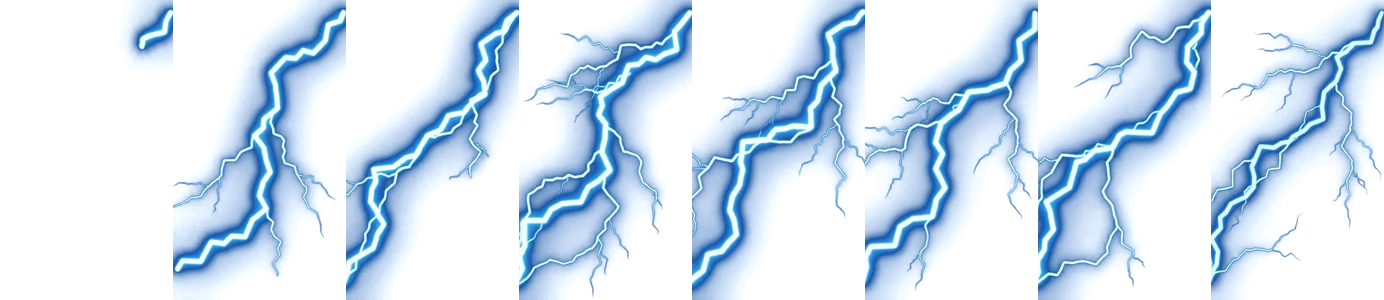
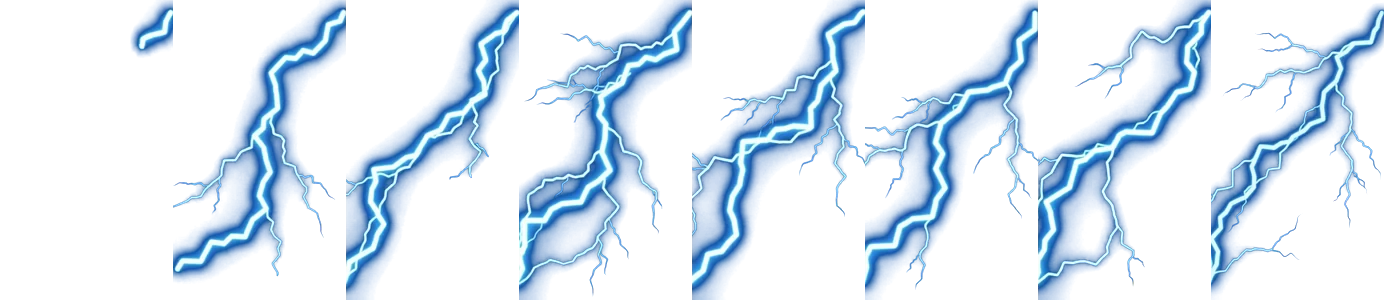
Paper Fighters: dark night with a light pool on the fight, night lightning, ghosts that can be beaten
Night is near-black except an oval of light that follows the fighters,
lightning now strikes at night and lifts the dark for a moment, and ghosts
glow in the dark. Ghosts float within reach, take three hits (heavy hits
count double), flash and get knocked back when hit, burst on death, and
projectiles hurt them too. Cleaned the haze around the lightning image.

Claude-Session: https://claude.ai/code/session_018GkYzaQzPA7Fx3gLGY7Wwf

Changed region(s): [[0.1243, 0.0, 1.0, 1.0], [0.0932, 0.0, 0.1243, 0.21]]

diff --git a/pencil-battle/game.html b/pencil-battle/game.html
@@ -2055,6 +2055,7 @@ function throwProj(f){const t=f.ch.proj,P_=PROJ[t],h=f.sk.h1,n=t==='star'?3:1;AU
 function updProj(e,dt){if(e.t<0)return;e.vy-=e.g*dt;e.x+=e.vx*dt;e.y+=e.vy*dt;e.rot+=dt*(e.type==='star'?28:8);
   if(e.type==='fire'&&Math.random()<.7)fx.push({k:'ink',x:e.x,y:e.y,vx:-e.vx*.2+(Math.random()-.5)*80,vy:(Math.random()-.3)*90,t:0,life:.35,col:Math.random()<.5?'#ffb21e':'#ff5a1e',len:6});
   if(e.type==='ice'&&Math.random()<.5)fx.push({k:'ink',x:e.x,y:e.y,vx:-e.vx*.15,vy:(Math.random()-.5)*60,t:0,life:.4,col:'#bfefff',len:4});
+  const gh=GH.find(g=>!g.dead&&Math.hypot(g.x-e.x,g.y-e.y)<60);if(gh){e.done=1;e.t=e.life;if(e.type==='bomb')smokePuff(e.x,1);else if(e.type==='fire')fireBurst([e.x,e.y],true,'#ff5a1e');hurtGhost(gh,e.o,e.type==='star'?1:3,[e.x,e.y]);return}
   const tgt=fighters.find(f=>f!==e.o&&f.team!==e.o.team&&!f.gone&&f.state!=='ko'&&!f.ko&&Math.abs(f.x-e.x)<30*f.sc&&e.y>-5&&e.y<150*f.sc);
   if(!tgt&&!(e.type==='bomb'&&e.y<=4))return;
   e.done=1;e.t=e.life;const p=[e.x,e.y];
@@ -2093,23 +2094,30 @@ setTimeout(()=>{wxLabel();const b=document.getElementById('wxBtn');if(b)b.onclic
 let GH=[];const GHI=Array.from({length:10},(_,i)=>Object.assign(new Image(),{src:'fx/ghost'+i+'.webp'}));  // 8-frame strips cut from the user's ghost video
 function updGhosts(dt){if(WX.type!=='night'||game.mode==='demo'||game.phase!=='fight'){if(game.phase!=='fight')GH=[];return}
   WX.gT=(WX.gT??4)-dt;const cap=game.mode==='story'?3:2;
-  if(WX.gT<=0&&GH.length<cap){WX.gT=6+Math.random()*6;const hw=W/2/cam.z;GH.push({x:cam.x+(Math.random()<.5?-1:1)*hw*.9,y:230+Math.random()*90,t:0,st:'drift',cd:2+Math.random()*2,i:Math.random()*10|0,a:0,face:1});AU.whoosh(true)}
-  for(const g of GH){g.t+=dt;g.a=Math.min(1,g.a+dt*1.5);
-    if(g.st==='drift'){g.cd-=dt;const hw=W/2/cam.z;g.x+=Math.sin(g.t*.9+g.i)*60*dt;g.y=230+Math.sin(g.t*1.7+g.i)*40;g.x=clamp(g.x,cam.x-hw,cam.x+hw);
+  if(WX.gT<=0&&GH.length<cap){WX.gT=6+Math.random()*6;const hw=W/2/cam.z;GH.push({x:cam.x+(Math.random()<.5?-1:1)*hw*.9,y:150,t:0,st:'drift',cd:2+Math.random()*2,i:Math.random()*10|0,a:0,face:1,hp:3,fl:0,kx:0});AU.whoosh(true)}
+  for(const g of GH){g.t+=dt;g.a=Math.min(1,g.a+dt*1.5);g.fl=Math.max(0,g.fl-dt);if(g.kx){g.x+=g.kx*dt;g.kx*=Math.pow(.02,dt);if(Math.abs(g.kx)<20)g.kx=0}
+    if(g.st==='drift'){g.cd-=dt;const hw=W/2/cam.z;g.x+=Math.sin(g.t*.9+g.i)*60*dt;g.y+=(140+Math.sin(g.t*1.7+g.i)*45-g.y)*Math.min(1,dt*3);g.x=clamp(g.x,cam.x-hw,cam.x+hw);
       if(g.cd<=0){const tg=fighters.filter(f=>!f.gone&&!f.ko&&f.state!=='ko').sort((a,b)=>Math.abs(a.x-g.x)-Math.abs(b.x-g.x))[0];if(tg){g.st='dash';g.tg=tg;g.cd=1.2}}}
     else if(g.st==='dash'){const tg=g.tg,tx=tg.x,ty=tg.y+95*tg.sc,dx=tx-g.x,dy=ty-g.y,l=Math.hypot(dx,dy)||1;g.face=dx>0?1:-1;g.x+=dx/l*520*dt;g.y+=dy/l*520*dt;g.cd-=dt;
-      if(l<34*tg.sc&&tg.inv<=0&&tg.state!=='down'&&tg.state!=='getup'){const d=Math.sign(dx)||1;tg.hp=Math.max(1,tg.hp-4);tg.state='hit';tg.stun=.4;tg.vx=d*260;tg.move=null;tg.flash=.13;tg.hitPose='hit2';spark([tg.x,ty],0);AU.hit(false);if(tg===P1)buzz(40);g.st='drift';g.cd=3+Math.random()*2;g.y+=60}
+      if(l<34*tg.sc&&tg.inv<=0&&tg.state!=='down'&&tg.state!=='getup'){const d=Math.sign(dx)||1;tg.hp=Math.max(1,tg.hp-4);tg.state='hit';tg.stun=.4;tg.vx=d*260;tg.move=null;tg.flash=.13;tg.hitPose='hit2';spark([tg.x,ty],0);AU.hit(false);if(tg===P1)buzz(40);g.st='drift';g.cd=3+Math.random()*2}
       else if(g.cd<=0){g.st='drift';g.cd=2.5}}
     // dispelled by any attack that reaches it
-    for(const f of fighters){if(f.state!=='move'||!f.move)continue;const m=f.move;for(const h of m.d.hits){if(m.t<h.t0||m.t>h.t1)continue;for(const q of f.limbPts(h.limb))if(Math.hypot(q[0]-g.x,q[1]-g.y)<46){g.dead=1;smokePuff(g.x,.7);fx.push({k:'word',x:g.x,y:g.y+30,t:0,life:.7,txt:'پوف!',rot:0});if(f===P1&&game.mode==='story'){story.kills++;addCoins(1)}}}}}
+    for(const f of fighters){if(g.dead||f.state!=='move'||!f.move||g.by===f.move)continue;const m=f.move;let hit=0;for(const h of m.d.hits){if(m.t<h.t0||m.t>h.t1)continue;for(const q of f.limbPts(h.limb))if(Math.hypot(q[0]-g.x,q[1]-g.y)<64)hit=h}
+      if(hit){g.by=m;hurtGhost(g,f,hit.dmg>=9||hit.kind==='heavy'||hit.kind==='knock'?2:1,[g.x,g.y])}}}
   GH=GH.filter(g=>!g.dead)}
+function hurtGhost(g,f,n,p){g.hp-=n;g.fl=.18;g.kx=(Math.sign(g.x-f.x)||f.face||1)*380;g.st='drift';g.cd=Math.max(g.cd,1.4);spark(p,1);AU.hit(true);shake(4);
+  if(g.hp>0){fx.push({k:'word',x:g.x,y:g.y+50,t:0,life:.5,txt:['جیغ!','هـــو!','آخ!'][g.hp%3],rot:0});return}
+  g.dead=1;smokePuff(g.x,.9);for(let k=0;k<18;k++){const a=Math.random()*TAU,v=150+Math.random()*350;fx.push({k:'ink',x:g.x,y:g.y,vx:Math.cos(a)*v,vy:Math.sin(a)*v,t:0,life:.5,col:Math.random()<.5?'#dff4ff':'#9fd8ff',len:7})}
+  fx.push({k:'ring',x:g.x,y:g.y,t:0,life:.35,col:'#bfe8ff',s:1.6});fx.push({k:'word',x:g.x,y:g.y+40,t:0,life:.8,txt:'پوف!',rot:0});
+  if(f===P1&&game.mode==='story'){story.kills++;addCoins(2)}}
 function drawGhostsWX(){for(const g of GH){const im=GHI[g.i],bob=Math.sin(g.t*4)*4;ctx.save();ctx.globalAlpha=g.a*(g.st==='dash'?1:.9);ctx.translate(g.x,g.y+bob);if(QL<1){ctx.shadowColor='rgba(200,230,255,.8)';ctx.shadowBlur=QL?0:14}
-    if(im.complete&&im.naturalWidth){const fw=im.naturalWidth/8,h=150,w=h*fw/im.naturalHeight,k=Math.floor(g.t*8)%8;ctx.scale(g.face,-1);ctx.drawImage(im,k*fw,0,fw,im.naturalHeight,-w/2,-h/2,w,h)}
+    if(im.complete&&im.naturalWidth){const fw=im.naturalWidth/8,h=150,w=h*fw/im.naturalHeight,k=Math.floor(g.t*8)%8;ctx.scale(g.face,-1);ctx.drawImage(im,k*fw,0,fw,im.naturalHeight,-w/2,-h/2,w,h);if(g.fl>0){ctx.globalCompositeOperation='lighter';ctx.globalAlpha=g.fl/.18;ctx.drawImage(im,k*fw,0,fw,im.naturalHeight,-w/2,-h/2,w,h)}}
     else{ctx.scale(g.face,1);ctx.fillStyle='rgba(240,244,255,.9)';ctx.strokeStyle='rgba(60,70,90,.8)';ctx.lineWidth=2;ctx.beginPath();ctx.moveTo(-26,-34);for(let i=0;i<=6;i++){const x=-26+i*52/6;ctx.lineTo(x,-34+(i%2?8:0)+Math.sin(g.t*8+i)*3)}ctx.lineTo(26,10);ctx.arc(0,10,26,0,Math.PI);ctx.closePath();ctx.fill();ctx.stroke();
       ctx.fillStyle='#14161c';for(const ex of[-9,9]){ctx.beginPath();ctx.ellipse(ex+4,14,5,8,0,0,TAU);ctx.fill()}ctx.beginPath();ctx.ellipse(6,-4,6,9+Math.sin(g.t*6)*3,0,0,TAU);ctx.fill()}
     ctx.restore()}}
 function rollWeather(){GH=[];WX.gT=4;const r=Math.random();WX.type=wxPick!=='rand'?wxPick:r<.45?'clear':r<.6?'night':r<.75?'rain':r<.87?'storm':'snow';WX.t=0;WX.snow=0;WX.flash=0;WX.next=3+Math.random()*5;WX.drops=[]}
-function updWeather(dt){if(game.mode==='demo'||WX.type==='clear'||WX.type==='night')return;WX.t+=dt;
+function updWeather(dt){if(game.mode==='demo'||WX.type==='clear')return;WX.t+=dt;
+  if(WX.type==='night'){WX.flash=Math.max(0,WX.flash-dt*2.6);WX.next-=dt;if(WX.next<=0){WX.next=5+Math.random()*8;WX.flash=1;WX.bolt=W*(.1+Math.random()*.8);setTimeout(()=>{AU.thud();shake(7)},200+Math.random()*450)}return}
   const rain=WX.type==='rain'||WX.type==='storm',n=(rain?(WX.type==='storm'?260:210):170)*(QL?.55:1)|0;
   while(WX.drops.length<n){const s_=Math.random();WX.drops.push({x:Math.random()*W,y:Math.random()*H-H,v:rain?(520+s_*620):(40+Math.random()*50),s:s_,ph:Math.random()*TAU})}
   const gy=groundY();for(const d of WX.drops){d.y+=d.v*dt;if(rain)d.x-=d.v*.12*dt;else d.x+=Math.sin(WX.t*1.3+d.ph)*20*dt;
@@ -2122,9 +2130,18 @@ function drawWeatherWorld(){if(WX.type!=='snow'||WX.snow<=0)return;const a=WX.sn
   ctx.fillStyle=`rgba(255,255,255,${.9*a})`;for(let x=Math.floor((cam.x-hw)/90)*90;x<cam.x+hw;x+=90){const r=(Math.sin(x*12.9898)*43758.5453)%1;ctx.beginPath();ctx.ellipse(x+Math.abs(r)*60,2,26+Math.abs(r)*30,4+8*a,0,0,TAU);ctx.fill()}
   for(const p of props){if(p.y>2||Math.abs(p.rot)>.2)continue;ctx.beginPath();ctx.ellipse(p.x,p.y+p.h-1,p.w*.55,3+10*a,0,0,Math.PI);ctx.fill()}
   ctx.restore()}
+// night: the room is dark except a pool of light that follows the fight; lightning lifts the dark for a moment
+function drawNight(){const al=fighters.filter(f=>!f.gone);let x0=cam.x,x1=cam.x;if(al.length){x0=Math.min(...al.map(f=>f.x));x1=Math.max(...al.map(f=>f.x))}
+  const [mx,my]=toScreen((x0+x1)/2,85),z=cam.z,ry=150*z,r0=Math.max(ry,(x1-x0)/2*z+110*z),fl=WX.flash,dk=.93*(1-fl*.85);
+  // oval light: r0 wide, ry tall (drawn as a stretched circle)
+  const g=ctx.createRadialGradient(0,0,ry*.7,0,0,ry*1.5);g.addColorStop(0,'rgba(3,5,18,0)');g.addColorStop(.4,`rgba(3,5,18,${dk*.5})`);g.addColorStop(1,`rgba(3,5,18,${dk})`);
+  ctx.save();ctx.translate(mx,my);ctx.scale(r0/ry,1);ctx.fillStyle=g;const R=Math.max(W,H)*2;ctx.fillRect(-R,-R,R*2,R*2);ctx.restore();
+  // soft cone of light from above and a warm pool on the floor
+  const gy=groundY(),c=ctx.createLinearGradient(0,0,0,gy);c.addColorStop(0,'rgba(255,232,170,.0)');c.addColorStop(1,'rgba(255,226,150,.13)');ctx.fillStyle=c;ctx.beginPath();ctx.moveTo(mx-r0*.25,0);ctx.lineTo(mx+r0*.25,0);ctx.lineTo(mx+r0*1.05,gy);ctx.lineTo(mx-r0*1.05,gy);ctx.closePath();ctx.fill();
+  const p=ctx.createRadialGradient(mx,gy,4,mx,gy,r0*1.1);p.addColorStop(0,'rgba(255,220,140,.22)');p.addColorStop(1,'rgba(255,220,140,0)');ctx.fillStyle=p;ctx.save();ctx.translate(mx,gy);ctx.scale(1,.22);ctx.translate(-mx,-gy);ctx.fillRect(mx-r0*1.2,gy-r0*1.2,r0*2.4,r0*2.4);ctx.restore()}
 function drawWeatherScreen(){if(game.mode==='demo')return;const T=WX.type;if(T==='clear')return;ctx.save();
-  if(T==='night'||T==='storm'||T==='rain'){ctx.fillStyle=T==='night'?'rgba(8,14,52,.58)':T==='storm'?'rgba(14,18,36,.5)':'rgba(28,38,62,.3)';ctx.fillRect(0,0,W,H);
-    if(T==='night'){const g=ctx.createRadialGradient(W/2,groundY()-60,30,W/2,groundY()-60,Math.max(W,H)*.6);g.addColorStop(0,'rgba(255,230,160,.12)');g.addColorStop(1,'rgba(0,0,0,0)');ctx.fillStyle=g;ctx.fillRect(0,0,W,H)}}
+  if(T==='night')drawNight();
+  else if(T==='storm'||T==='rain'){ctx.fillStyle=T==='storm'?'rgba(14,18,36,.5)':'rgba(28,38,62,.3)';ctx.fillRect(0,0,W,H)}
   if(T==='rain'||T==='storm'){const gy=groundY();
     // wet floor: cooler, darker, with soft horizontal shine
     ctx.fillStyle='rgba(40,62,92,.16)';ctx.fillRect(0,gy,W,H-gy);ctx.strokeStyle='rgba(220,235,255,.18)';ctx.lineWidth=1;ctx.beginPath();for(let i=0;i<9;i++){const y=gy+(H-gy)*((i*.137+WX.t*.02)%1),x=((i*271)%W);ctx.moveTo(x,y);ctx.lineTo(x+60+i*9,y)}ctx.stroke();
@@ -2137,7 +2154,7 @@ function drawWeatherScreen(){if(game.mode==='demo')return;const T=WX.type;if(T==
     // mist near the top
     const g=ctx.createLinearGradient(0,0,0,gy);g.addColorStop(0,'rgba(200,212,228,.18)');g.addColorStop(1,'rgba(200,212,228,0)');ctx.fillStyle=g;ctx.fillRect(0,0,W,gy)}
   if(T==='snow'){ctx.fillStyle='rgba(255,255,255,.92)';for(const d of WX.drops){ctx.beginPath();ctx.arc(d.x,d.y,2+d.s*3,0,TAU);ctx.fill()}}
-  if(T==='storm'&&WX.flash>0){if(WX.flash>.55){ctx.save();ctx.globalCompositeOperation='lighter';const hh=groundY()*.85;if(!fxFrame('bolt',1+Math.floor(WX.t*20)%7,WX.bolt-hh*.3,0,hh*.58,hh)){ctx.strokeStyle='rgba(235,245,255,.95)';ctx.lineWidth=3;ctx.beginPath();let x=WX.bolt,y=0;ctx.moveTo(x,y);while(y<groundY()*.7){x+=(Math.random()-.5)*50;y+=30+Math.random()*30;ctx.lineTo(x,y)}ctx.stroke()}ctx.restore()}
+  if((T==='storm'||T==='night')&&WX.flash>0){if(WX.flash>.55){ctx.save();ctx.globalCompositeOperation='lighter';const hh=groundY()*.85;if(!fxFrame('bolt',1+Math.floor(WX.t*20)%7,WX.bolt-hh*.3,0,hh*.58,hh)){ctx.strokeStyle='rgba(235,245,255,.95)';ctx.lineWidth=3;ctx.beginPath();let x=WX.bolt,y=0;ctx.moveTo(x,y);while(y<groundY()*.7){x+=(Math.random()-.5)*50;y+=30+Math.random()*30;ctx.lineTo(x,y)}ctx.stroke()}ctx.restore()}
     ctx.fillStyle=`rgba(235,240,255,${WX.flash*.45})`;ctx.fillRect(0,0,W,H)}
   ctx.restore()}
 function smokePuff(x,sc=1){shake(5);for(let k=0;k<14;k++){const a=Math.random()*TAU;fx.push({k:'smoke',x:x+Math.cos(a)*20*sc,y:(20+Math.random()*110)*sc,vx:Math.cos(a)*(60+Math.random()*120),vy:20+Math.random()*60,r:(20+Math.random()*22)*sc,t:0,life:.8+Math.random()*.5,col:Math.random()<.5?'#bdbab4':'#8f8b85'})}}
@@ -2777,9 +2794,9 @@ function render(){
     const g=ctx.createRadialGradient(fx_,fy_,R0*.45,fx_,fy_,R0*1.25);g.addColorStop(0,'rgba(12,8,6,0)');g.addColorStop(.55,`rgba(12,8,6,${.6*k})`);g.addColorStop(1,`rgba(12,8,6,${.9*k})`);ctx.fillStyle=g;ctx.fillRect(0,0,W,H);worldTf(sx,sy)}
   const order=[...fighters].sort((a,b)=>(a.state==='ko'?-1:0)-(b.state==='ko'?-1:0)||(a.state==='move'?1:0)-(b.state==='move'?1:0));
   for(const f of order)drawTrail(f);for(const f of order)drawFighterFx(f);drawProjs();
-  drawFx();drawSoul();drawWeatherWorld();drawGhostsWX();
+  drawFx();drawSoul();drawWeatherWorld();
   ctx.setTransform(DPR,0,0,DPR,0,0);
-  drawWeatherScreen();drawSpeed();drawWords();drawOverheads();
+  drawWeatherScreen();if(GH.length){worldTf(sx,sy);drawGhostsWX();ctx.setTransform(DPR,0,0,DPR,0,0)}drawSpeed();drawWords();drawOverheads();
   if(game.flashT>0){ctx.fillStyle=`rgba(255,250,240,${game.flashT*7})`;ctx.fillRect(0,0,W,H)}
   if(grain&&QL<2){ctx.globalAlpha=.55;ctx.fillStyle=grain;ctx.fillRect(0,0,W,H);ctx.globalAlpha=1}
   if(!vign){vign=ctx.createRadialGradient(W/2,H/2,Math.min(W,H)*.35,W/2,H/2,Math.hypot(W,H)*.62);vign.addColorStop(0,'rgba(0,0,0,0)');vign.addColorStop(1,'rgba(70,55,35,.22)')}
